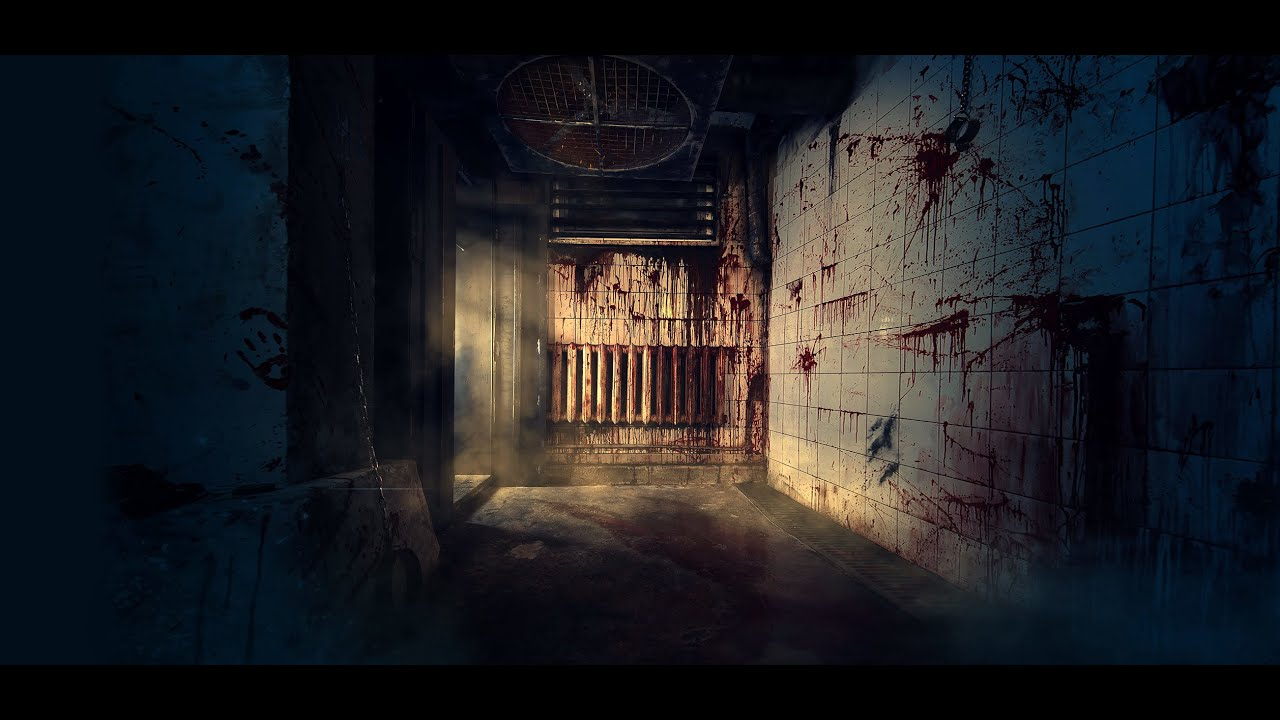
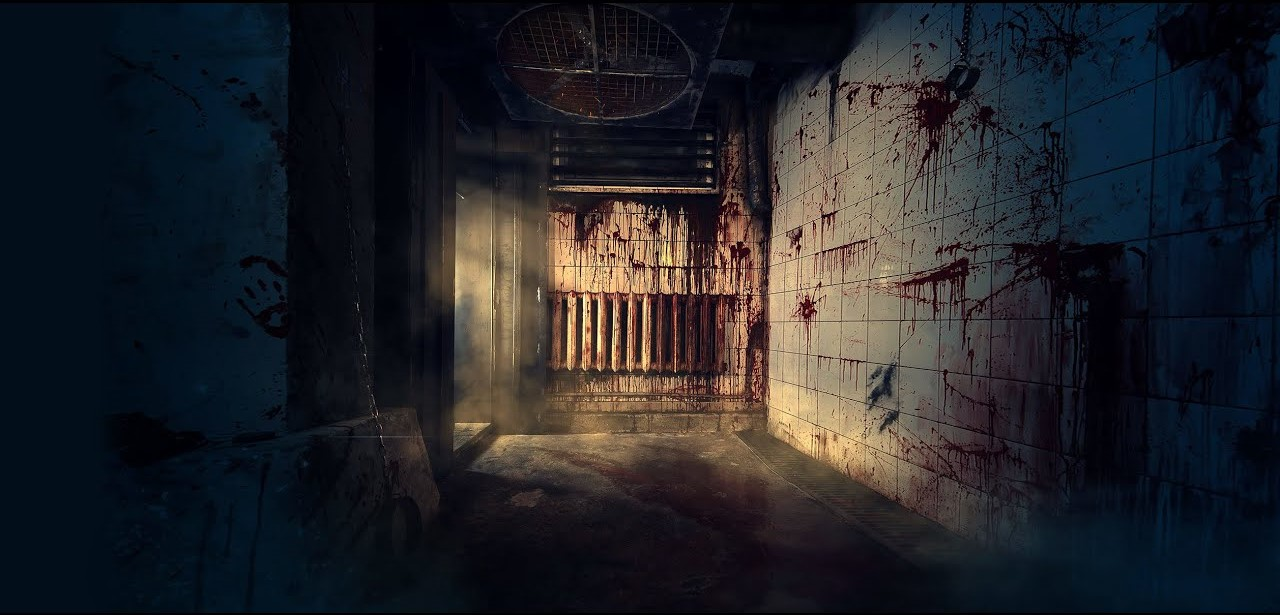
final

diff --git a/index.html b/index.html
@@ -276,7 +276,7 @@
                                     <div class="col-md-12">
                                         <div class="item">
                                             <div class="imgone big-bord wow fadeInDown" data-wow-delay=".8s">
-                                                <img class="" src="img/a3.png" alt="">
+                                                <img class="" src="img/c1.png" alt="">
                                             </div>
 
                                         </div>
@@ -326,7 +326,7 @@
                                                 <div class="img">
                                                     <span class="imgio" style="width: 100%;">
                                                         <div class="wow cimgio" data-delay="300"></div><img
-                                                            src="img/b3.jpg" alt="Sisters"
+                                                            src="img/c7.jpg" alt="Sisters"
                                                           >
                                                     </span>
                                                 </div>
@@ -342,7 +342,7 @@
                                                     <span class="imgio" style="width: 100%;">
                                                         <div class="wow cimgio" data-delay="300">
                                                         </div>
-                                                        <img src="img/b4.jpg" alt="Psycho"
+                                                        <img src="img/c5.jpg" alt="Psycho"
                                                           >
                                                     </span>
                                                 </div>
@@ -378,7 +378,7 @@
                         <div class="col-lg-2 col-md-6 items text-center">
                             <div class="item wow fadeIn" data-wow-delay=".3s">
                                 <span class="icon">
-                                    <i class="flaticon-support"></i>
+                                    <img src="img/icons/family friend.png" alt="">
                                 </span>
                                 <h5>Make a group with (2-10 people)</h5>
                             </div>
@@ -386,7 +386,7 @@
                         <div class="col-lg-2 col-md-6 items text-center">
                             <div class="item wow fadeIn" data-wow-delay=".3s">
                                 <span class="icon">
-                                    <i class="flaticon-reserved"></i>
+                                    <img src="img/icons/book one.png" alt="">
                                 </span>
                                 <h5 class="text-center">Reserve one of the games</h5>
                             </div>
@@ -394,7 +394,7 @@
                         <div class="col-lg-2 col-md-6 items text-center">
                             <div class="item wow fadeIn" data-wow-delay=".3s">
                                 <span class="icon">
-                                    <i class="flaticon-clock"></i>
+                                    <img src="img/icons/come 15.png" alt="">
                                 </span>
                                 <h5 class="text-center">Come 15 Min in Advance</h5>
                             </div>
@@ -402,7 +402,7 @@
                         <div class="col-lg-2 col-md-6 items text-center">
                             <div class="item wow fadeIn" data-wow-delay=".3s">
                                 <span class="icon">
-                                    <i class="flaticon-open-door"></i>
+                                    <img src="img/icons/lock.png" alt="">
                                 </span>
                                 <h5 class="text-center">Get Locked<br>& Play</h5>
                             </div>
@@ -410,7 +410,7 @@
                         <div class="col-lg-2 col-md-6 items text-center">
                             <div class="item wow fadeIn" data-wow-delay=".3s">
                                 <span class="icon">
-                                    <i class="flaticon-puzzle"></i>
+                                    <img src="img/icons/puzzle.png" alt="">
                                 </span>
                                 <h5 class="text-center">Find the keys & solve the issues</h5>
                             </div>
@@ -418,7 +418,7 @@
                         <div class="col-lg-2 col-md-6 items text-center">
                             <div class="item wow fadeIn" data-wow-delay=".3s">
                                 <span class="icon">
-                                    <i class="flaticon-evacuation"></i>
+                                    <img src="img/icons/escape.png" alt="">
                                 </span>
                                 <h5 class="text-center">Play and escape under an hour</h5>
                             </div>
@@ -442,7 +442,7 @@
                         <div class="col-lg-3 col-md-6 items">
                             <div class="item wow fadeIn" data-wow-delay=".3s">
                                 <span class="icon">
-                                    <i class="flaticon-tie"></i>
+                                    <img src="img/icons/corporate.png" alt="">
                                 </span>
                                 <h5>CORPORATE</h5>
                                 <p>The exact place to check your teamwork, sociability and critical thinking</p>
@@ -451,7 +451,7 @@
                         <div class="col-lg-3 col-md-6 items">
                             <div class="item wow fadeIn" data-wow-delay=".3s">
                                 <span class="icon">
-                                    <i class="flaticon-fist-bump"></i>
+                                    <img src="img/icons/family friend.png" alt="">
                                 </span>
                                 <h5>FRIENDS & FAMILY</h5>
                                 <p>Share your actual thoughts and impressions with your friends and beloved</p>
@@ -461,7 +461,7 @@
                         <div class="col-lg-3 col-md-6 items">
                             <div class="item wow fadeIn" data-wow-delay=".3s">
                                 <span class="icon">
-                                    <i class="flaticon-gamepad"></i>
+                                    <img src="img/icons/game.png" alt="">
                                 </span>
                                 <h5>GAMERS</h5>
                                 <p>Your fantasy game is in real life!
@@ -471,7 +471,7 @@
                         <div class="col-lg-3 col-md-6 items">
                             <div class="item wow fadeIn" data-wow-delay=".3s">
                                 <span class="icon">
-                                    <i class="flaticon-backpack"></i>
+                                    <img src="img/icons/tourist.png" alt="">
                                 </span>
                                 <h5>TOURISTS</h5>
                                 <p>Make your journey more colorful with unexpected experiences</p>
@@ -489,7 +489,7 @@
                     <div class="row">
                         <div class="col-lg-6">
                             <div class="img">
-                                <img src="img/min-area.png" alt="Escape House">
+                                <img src="img/c2.png" alt="Escape House">
                             </div>
                         </div>
                         <div class="col-lg-6 valign">

diff --git a/rooms.html b/rooms.html
@@ -154,7 +154,7 @@
                                 <div class="img">
                                     <span class="imgio">
                                         <div class="wow cimgio" data-delay="300"></div><img
-                                            src="grafpanel/post/files/odalar/small/exorcist-2021-03-17-643.jpg"
+                                            src="img/c7.jpg"
                                             alt="Exorcist">
                                     </span>
                                 </div>
@@ -168,7 +168,7 @@
                                 <div class="img">
                                     <span class="imgio">
                                         <div class="wow cimgio" data-delay="300"></div><img
-                                            src="grafpanel/post/files/odalar/small/halloween-2021-03-09-629.jpg"
+                                            src="img/c5.jpg"
                                             alt="Halloween">
                                     </span>
                                 </div>

diff --git a/about-us.html b/about-us.html
@@ -141,7 +141,7 @@
                     </div>
                 </div>
             </div>
-            <div class="img-wrapper bg-img parallaxie" data-background="img/one.jpg" data-overlay-dark="3">
+            <div class="img-wrapper bg-img parallaxie" data-background="img/c6.jpg" data-overlay-dark="3">
                 <div class="title">
                     <div class="container">
                         <h3>About Us</h3>
@@ -212,7 +212,7 @@
                 <div class="row">
                     <div class="col-lg-6">
                         <div class="img">
-                            <img src="img/min-area.png" alt="Scream House">
+                            <img src="img/c2.png" alt="Scream House">
                         </div>
                     </div>
                     <div class="col-lg-6 valign">

diff --git a/css/style.css b/css/style.css
@@ -606,6 +606,11 @@ a:hover {
 }
 .imgio {
   position: relative;
+  height: 550px;
+  margin-bottom: 15px;
+}
+.imgio img{
+  height: 100%;
 }
 .imgio .cimgio {
   position: absolute;
@@ -1609,14 +1614,20 @@ a:hover {
   left: 5px;
 }
 .about .items {
-  padding: 60px 40px;
+  padding: 35px 40px;
   -webkit-transition: border 0.3s;
   -o-transition: border 0.3s;
   transition: border 0.3s;
 }
 .about .items .icon {
   font-size: 70px;
-  margin-bottom: 30px;
+  /* margin-bottom: 30px; */
+  margin-right: 20px !important;
+ 
+}
+.about .items .icon img{
+  width: 120px;
+  
 }
 .about .items .icon svg {
   width: 1em;
@@ -2571,6 +2582,9 @@ a:hover {
 .min-area .img {
   position: relative;
   z-index: 3;
+}
+.min-area .img img{
+  transform: rotateY(180deg);
 }
 .min-area .img:after {
   content: "";

diff --git a/rooms/sisters.html b/rooms/sisters.html
@@ -139,9 +139,9 @@
 
         <section class="page-header proj-det">
             <div class="img-wrapper bg-img "
-                data-background="../img/one.jpg">
+                data-background="../img/9.jpg">
                 <div class="video">
-                    <a class="vid valign" href="https://www.youtube.com/watch?v=K9ORyTJMwhM"><span class="video-icon"><i
+                    <a class="vid valign" href="#"><span class="video-icon"><i
                                 class="fab fa-youtube"></i></span></a>
                     <div class="container" style="background: rgba(0,0,0,0.5);">
                         <div class="row">

diff --git a/reservation/sisters/choose-date.html b/reservation/sisters/choose-date.html
@@ -173,7 +173,7 @@
     <div class="wrapper">
 
         <section class="page-header proj-det">
-            <div class="img-wrapper bg-img " data-background="../../img/one.jpg">
+            <div class="img-wrapper bg-img " data-background="../../img/10.jpg">
                 <div class="video">
                     <a href="#"><span class="video-icon"><i class="fab fa-youtube"></i></span></a>
                     <div class="container" style="background: rgba(0,0,0,0.5);">

diff --git a/reservation/sisters/continue.html b/reservation/sisters/continue.html
@@ -176,7 +176,7 @@
 
 
         <section class="page-header proj-det">
-            <div class="img-wrapper bg-img " data-background="../../img/one.jpg">
+            <div class="img-wrapper bg-img " data-background="../../img/c8.jpg">
                 <div class="video">
                     <a href="#"><span class="video-icon"><i class="fab fa-youtube"></i></span></a>
                     <div class="container" style="background: rgba(0,0,0,0.5);">

diff --git a/reservation/psycho/choose-date.html b/reservation/psycho/choose-date.html
@@ -174,7 +174,7 @@
 
         <section class="page-header proj-det">
             <div class="img-wrapper bg-img "
-                data-background="../../img/four.jpg">
+                data-background="../../img/c6.jpg">
                 <div class="video">
                     <a href="#"><span class="video-icon"><i class="fab fa-youtube"></i></span></a>
                     <div class="container" style="background: rgba(0,0,0,0.5);">

diff --git a/disclaimer-and-liability.html b/disclaimer-and-liability.html
@@ -188,7 +188,7 @@
                 <div class="row">
                     <div class="col-lg-6">
                         <div class="img">
-                            <img src="img/min-area.png" alt="Scream House">
+                            <img src="img/c2.png" alt="Scream House">
                         </div>
                     </div>
                     <div class="col-lg-6 valign">
